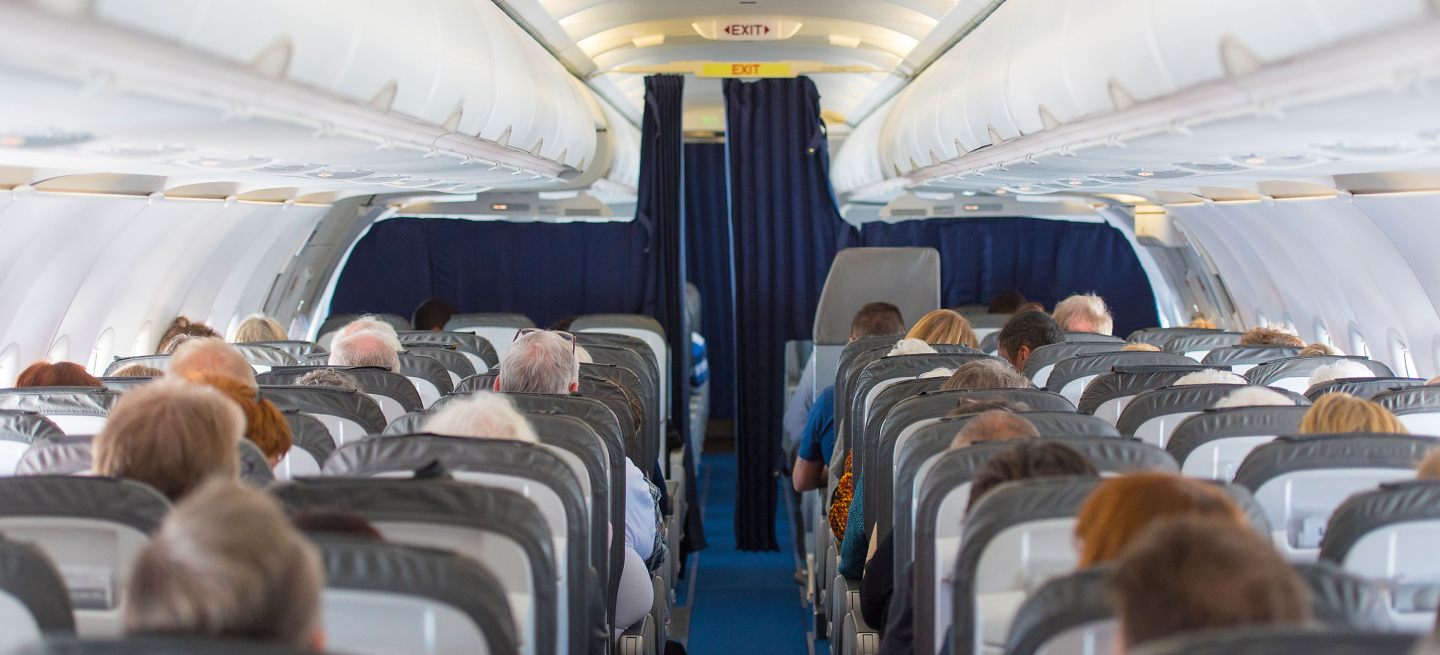
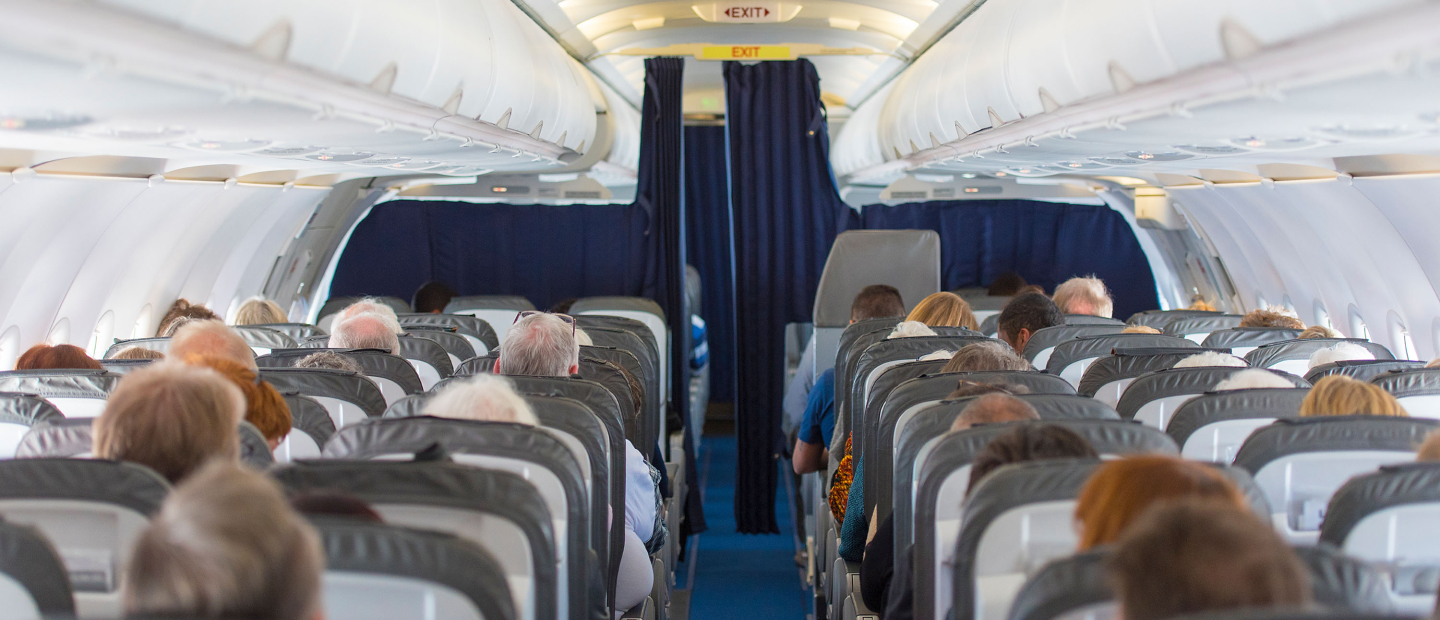
fixed image sizes in carousel

diff --git a/src/components/HomePage/Carousel/SmartLodge.jsx b/src/components/HomePage/Carousel/SmartLodge.jsx
@@ -32,7 +32,7 @@ const SmartLodge = () => {
             <img
               src={home}
               alt="home smartlodge"
-              className="absolute inset-0 object-cover w-full h-full"
+              className="absolute inset-0 w-full h-full"
             />
             <div className="absolute inset-0 w-full h-full bg-smart-lodge"></div>
             <div className="relative  xl:max-w-[1216px] w-full mx-auto ">
@@ -53,7 +53,7 @@ const SmartLodge = () => {
             <img
               src={smartlodge2}
               alt="second smartlodge"
-              className="absolute inset-0 object-cover w-full h-full"
+              className="absolute inset-0 w-full h-full"
             />
             <div className="absolute inset-0 w-full h-full bg-smart-lodge"></div>
             <div className="relative  xl:max-w-[1216px] w-full mx-auto">
@@ -74,7 +74,7 @@ const SmartLodge = () => {
             <img
               src={smartlodge3}
               alt="third smartlodge"
-              className="absolute inset-0 object-cover w-full h-full"
+              className="absolute inset-0 w-full h-full"
             />
             <div className="absolute inset-0 w-full h-full bg-smart-lodge"></div>
             <div className="relative  xl:max-w-[1216px] w-full mx-auto">
@@ -94,7 +94,7 @@ const SmartLodge = () => {
             <img
               src={smartlodge4}
               alt="fourth smartlodge"
-              className="absolute inset-0 object-cover w-full h-full"
+              className="absolute inset-0 w-full h-full"
             />
             <div className="absolute inset-0 w-full h-full bg-smart-lodge"></div>
             <div className="relative  xl:max-w-[1216px] w-full mx-auto">
@@ -115,7 +115,7 @@ const SmartLodge = () => {
             <img
               src={smartlodge5}
               alt="fifth smartlodge"
-              className="absolute inset-0 object-cover w-full h-full"
+              className="absolute inset-0 w-full h-full"
             />
             <div className="absolute inset-0 w-full h-full bg-smart-lodge"></div>
             <div className="relative  xl:max-w-[1216px] w-full mx-auto">

diff --git a/src/components/HomePage/Carousel/Enroute.jsx b/src/components/HomePage/Carousel/Enroute.jsx
@@ -31,7 +31,7 @@ const Enroute = () => {
           <img
             src={enroute1}
             alt="main enroute"
-            className="absolute inset-0 object-cover w-full h-full"
+            className="absolute inset-0  w-full h-full"
           />
           <div className="absolute inset-0 w-full h-full bg-smart-lodge"></div>
           <div className="relative  w-full xl:max-w-[1216px] mx-auto ">
@@ -52,7 +52,7 @@ const Enroute = () => {
           <img
             src={enroute2}
             alt="second enroute"
-            className="absolute inset-0 object-cover w-full h-full"
+            className="absolute inset-0  w-full h-full"
           />
           <div className="absolute inset-0 w-full h-full bg-smart-lodge"></div>
           <div className="relative  w-full xl:max-w-[1216px] mx-auto ">
@@ -73,7 +73,7 @@ const Enroute = () => {
           <img
             src={enroute3}
             alt="third enroute"
-            className="absolute inset-0 object-cover w-full h-full"
+            className="absolute inset-0  w-full h-full"
           />
           <div className="absolute inset-0 w-full h-full bg-smart-lodge"></div>
           <div className="relative w-full xl:max-w-[1216px] mx-auto">
@@ -94,7 +94,7 @@ const Enroute = () => {
           <img
             src={enroute4}
             alt="fourth enroute"
-            className="absolute inset-0 object-cover w-full h-full"
+            className="absolute inset-0  w-full h-full"
           />
           <div className="absolute inset-0 w-full h-full bg-smart-lodge"></div>
           <div className="relative  w-full xl:max-w-[1216px] mx-auto ">

diff --git a/src/components/HomePage/CaseStudies.jsx b/src/components/HomePage/CaseStudies.jsx
@@ -8,8 +8,7 @@ import b2gold from '/b2goldlogo2.png';
 import { BsArrowLeft, BsArrowRight } from 'react-icons/bs';
 import Slider from 'react-slick';
 import { Link } from 'react-router-dom';
-// import { FaArrowLeftLong } from 'react-icons/fa6';
-// import { HiArrowLongLeft, HiMiniArrowLongLeft } from 'react-icons/hi2';
+import './CaseStudies.css';
 
 const CaseStudies = () => {
 
@@ -56,7 +55,7 @@ const CaseStudies = () => {
           </div>
         </div>
         {/* <img src={blogcard} alt="blog card image" /> */}
-        <div className="w-[1216px] h-[512px] case-carousel mx-auto xl:w-full">
+        <div className="case-banner w-[1216px] h-[512px] case-carousel mx-auto xl:w-full">
           <Slider
             ref={(slider) => {
               sliderRef = slider;
@@ -148,7 +147,7 @@ const CaseStudies = () => {
               </div>
             </div>
           </Slider>
-          <div className="flex w-[152px] gap-8 relative bottom-24 left-[80%]">
+          {/* <div className="flex w-[152px] gap-8 relative bottom-24 left-[80%]">
             <button
               className="bg-custom-button flex items-center justify-center rounded-lg h-[60px] w-[60px]"
               onClick={previous}
@@ -171,7 +170,7 @@ const CaseStudies = () => {
                 ></path>
               </svg>
             </button>
-          </div>
+          </div> */}
         </div>
       </div>
     </div>

diff --git a/src/components/HomePage/CaseStudies.css b/src/components/HomePage/CaseStudies.css
@@ -1,0 +1,19 @@
+.case-banner .slick-slider.slick-initialized .slick-arrow::before{
+    position: absolute;   
+    top: 90%;
+    background-color: yellow;
+    z-index: 10;
+    height: 60px;
+    width: 60px;
+    border-radius: 8px;
+    background-image: url('/arrow.svg');
+    background-repeat: no-repeat;
+    background-position: center;
+    content: '';
+}
+.slick-prev.slick-disabled:before, .slick-next.slick-disabled:before {
+    opacity: 1;
+}
+.case-banner .slick-slider.slick-initialized .slick-prev{
+    left: 890px;
+}

diff --git a/src/components/HomePage/SecondPage/Travel.jsx b/src/components/HomePage/SecondPage/Travel.jsx
@@ -36,7 +36,7 @@ const Travel = () => {
       </div>
     </div>
     <div className="w-[571px] h-[465px] rounded-2xl">
-      <img src={travel} alt="travel image" className='t rounded-2xl'/>
+      <img src={travel} alt="travel image" className=' rounded-2xl'/>
     </div>
   </div>
   )
